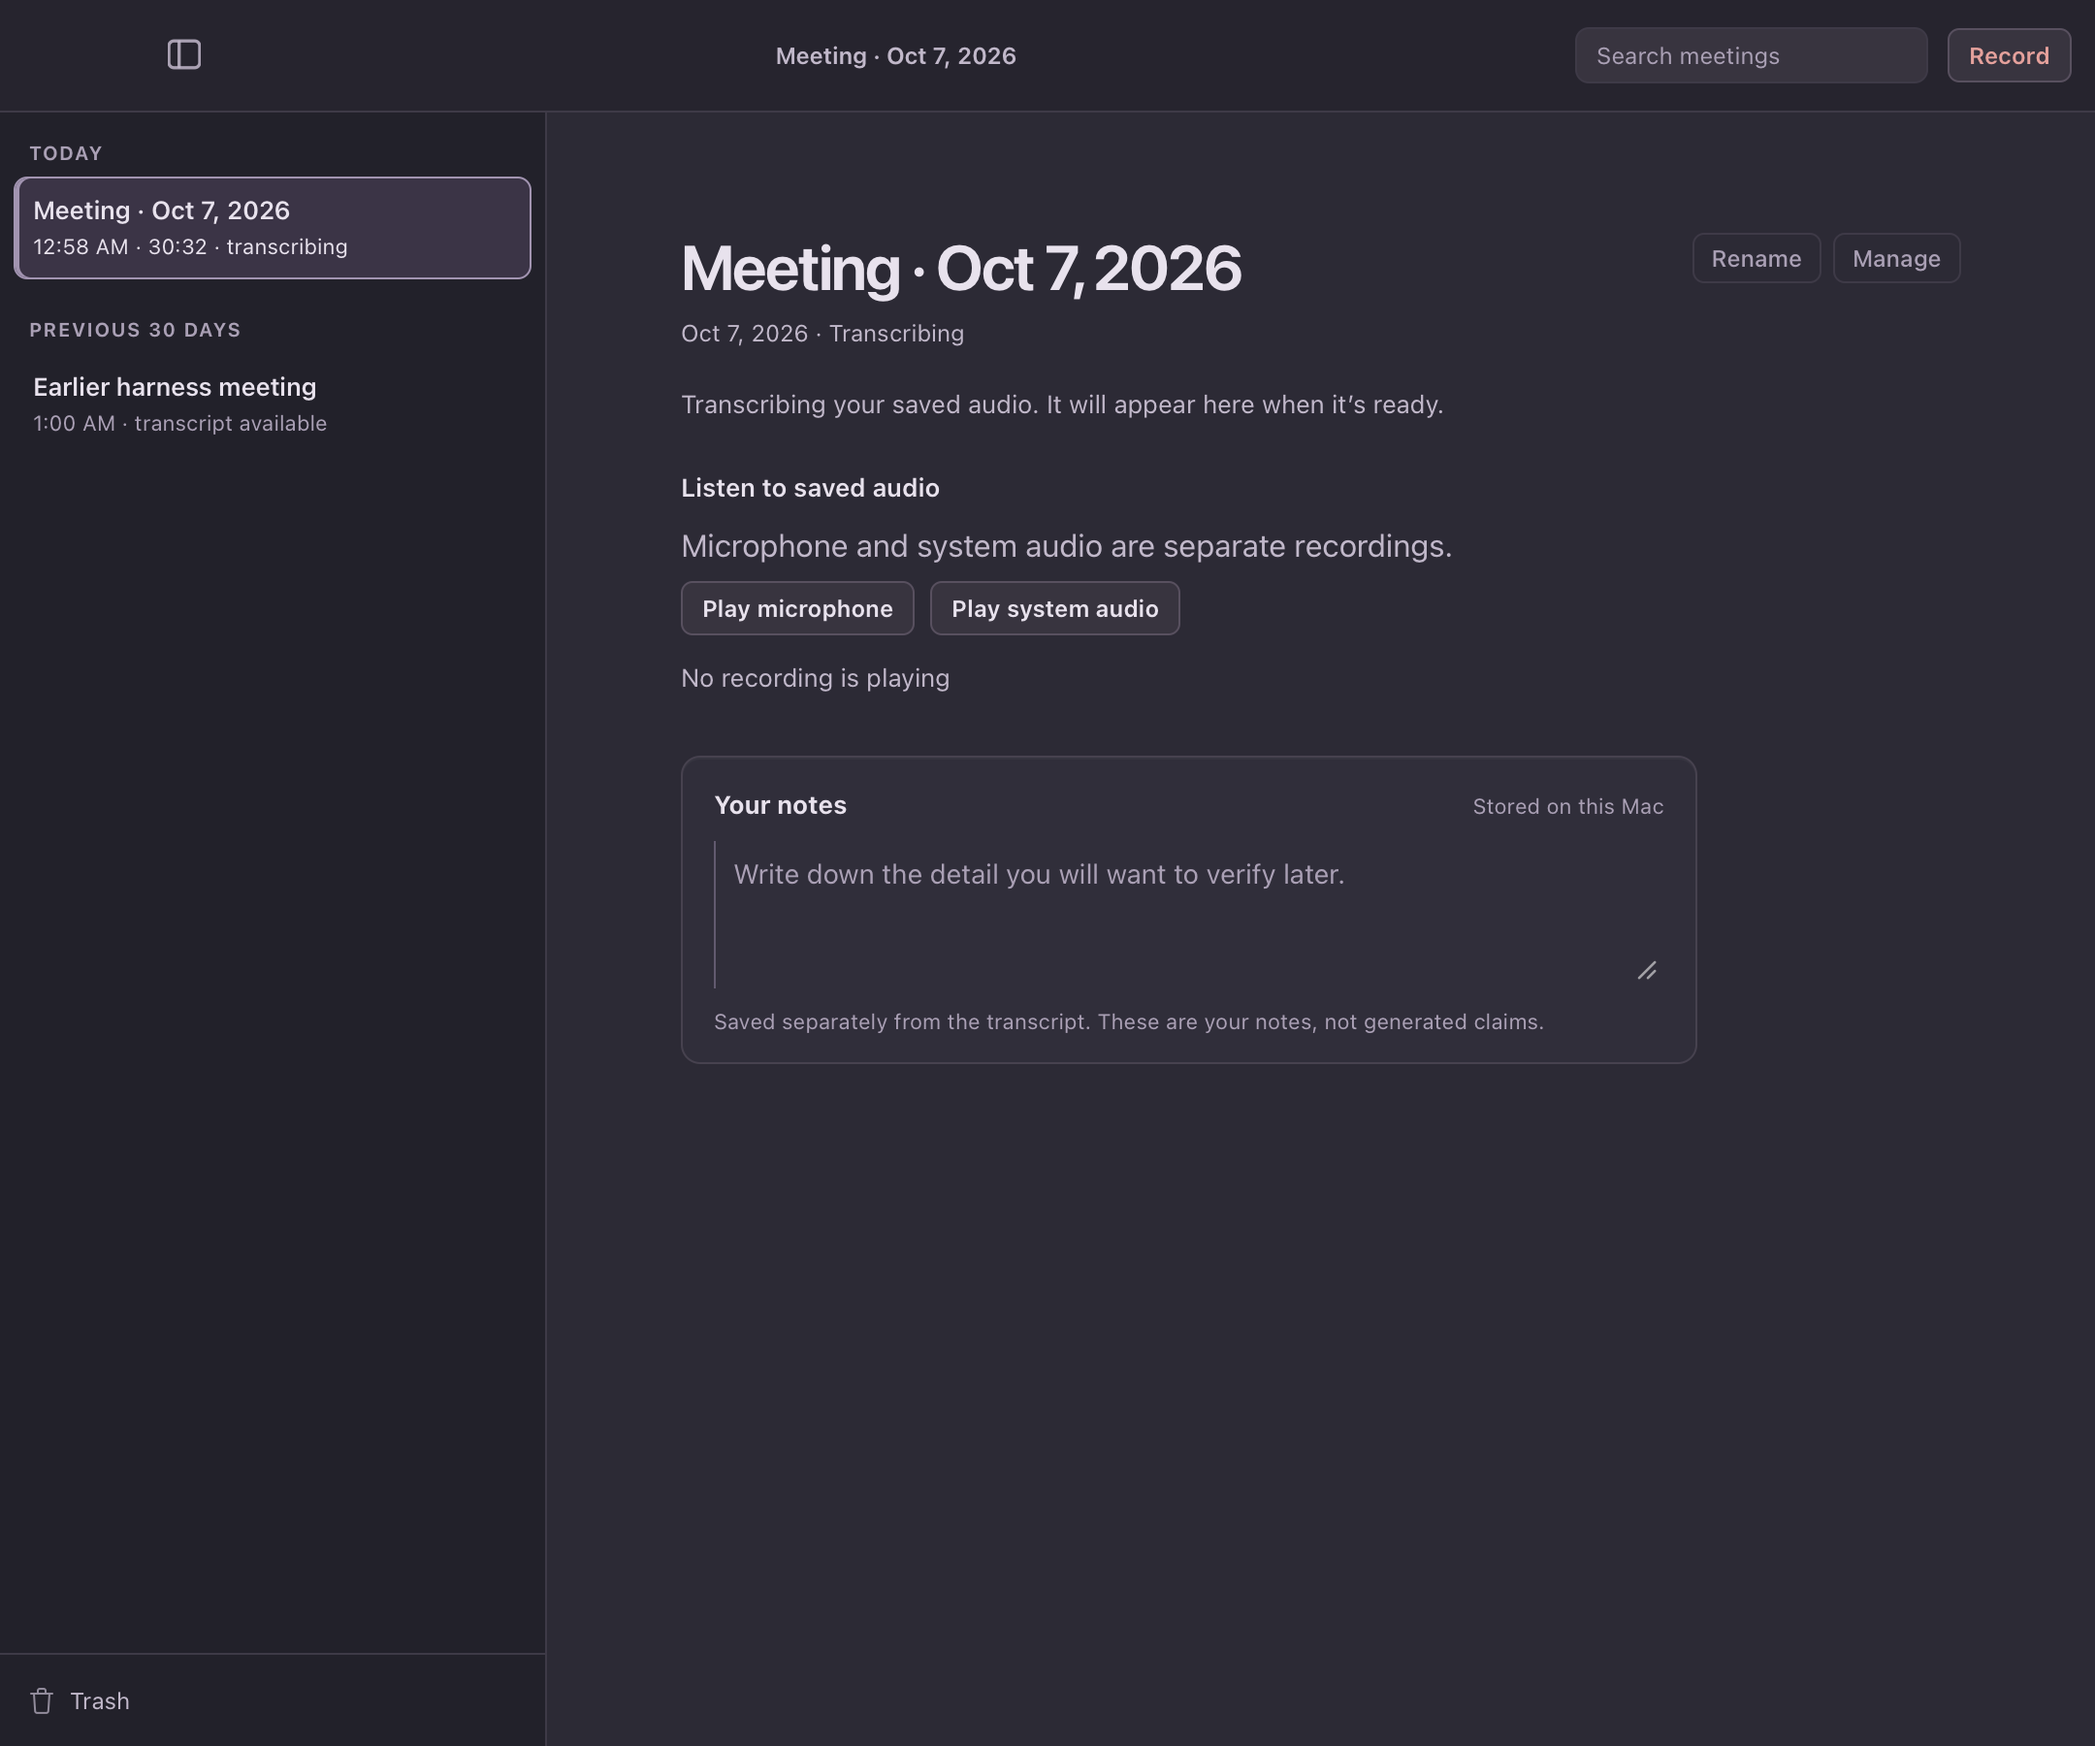
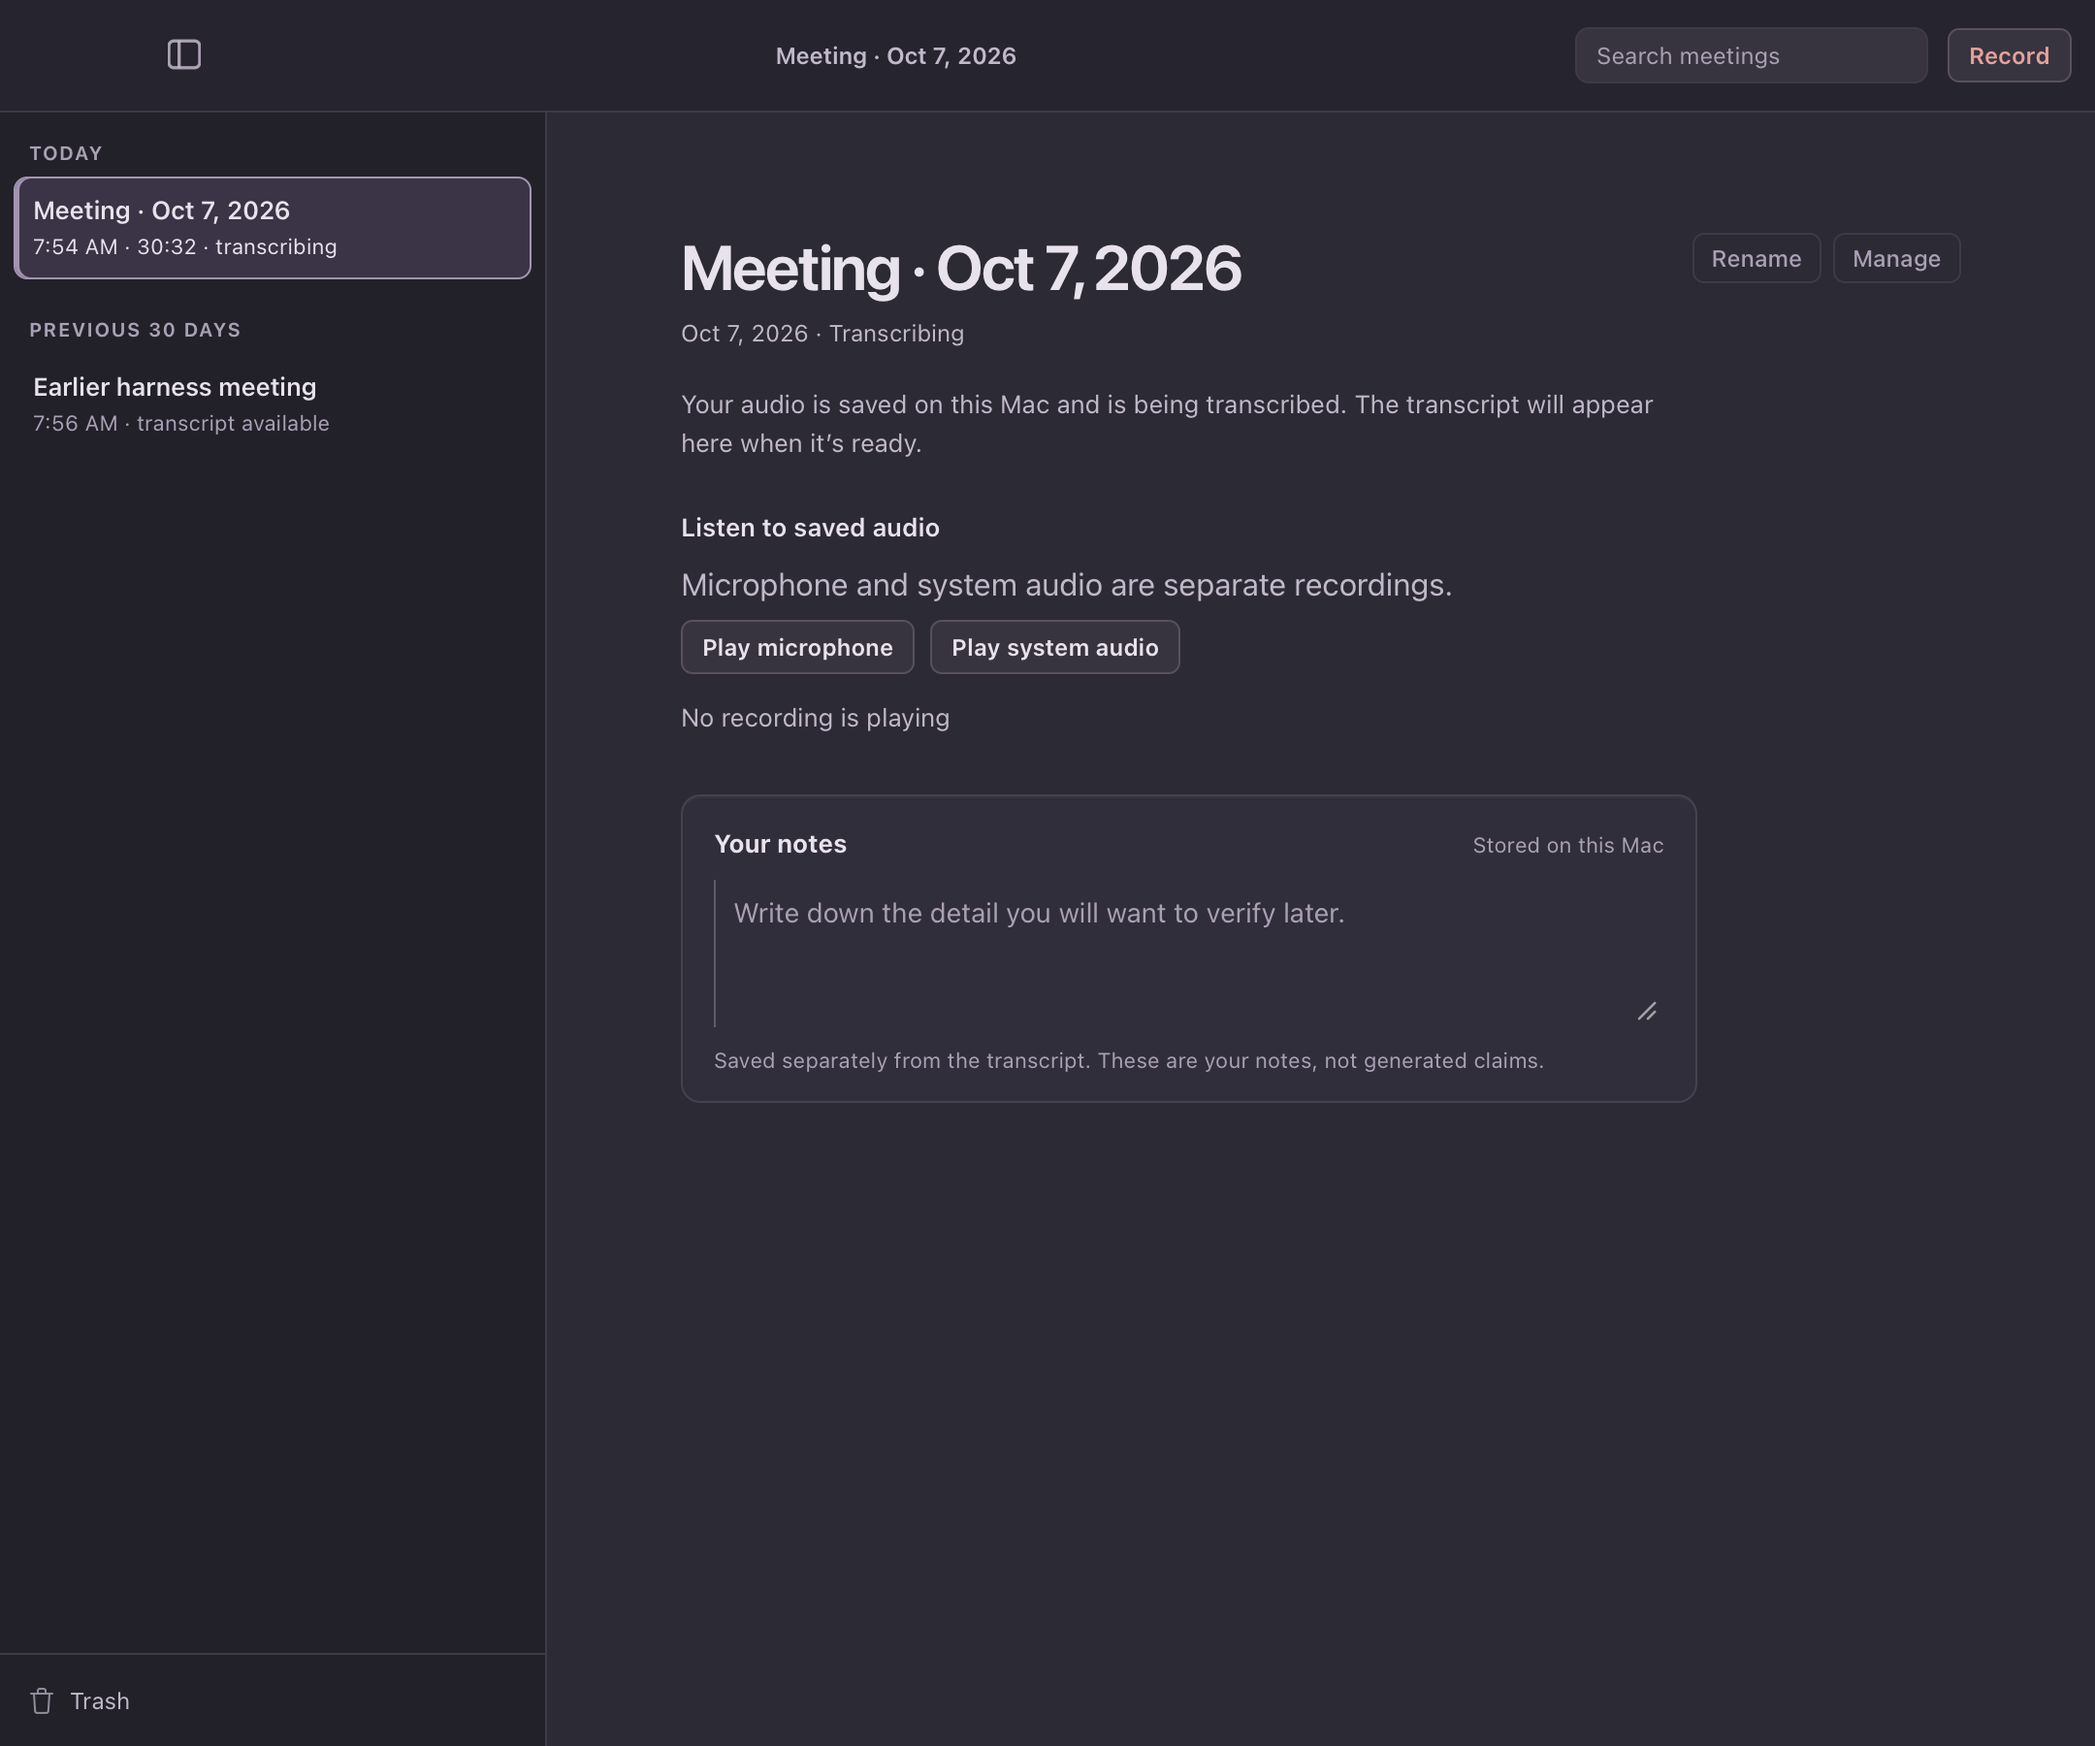
fix(ui): say the audio is saved on this Mac while it is transcribed
The cold review of the transcribing state found that "saved audio" and the
play buttons only implied the audio was safe. The operator accepted the
fix on 2026-10-07. The status now reads: "Your audio is saved on this Mac
and is being transcribed. The transcript will appear here when it's
ready." Updated in the backend message, the UI constant, the harness stub
and the DIRECTION.md content-reads row; the review record notes the
decision and the transcribing frames are recaptured. Tests assert state,
not this wording: desktop 289, UI 161 pass.

diff --git a/apps/desktop/ui-harness/tauri-stub.js b/apps/desktop/ui-harness/tauri-stub.js
@@ -314,7 +314,7 @@
         ? "No admitted note is available. Retained transcript text remains available."
         : legacyContract
           ? "No transcript was created for this retained meeting."
-          : "Transcribing your saved audio. It will appear here when it's ready.",
+          : "Your audio is saved on this Mac and is being transcribed. The transcript will appear here when it's ready.",
       audioRetention: { state: "retained", message: "Audio retained on this Mac." },
       capturePauses: null,
     } : searchMode && openedSearchMeeting ? {

diff --git a/apps/desktop/src-tauri/src/library_reader.rs b/apps/desktop/src-tauri/src/library_reader.rs
@@ -38,7 +38,7 @@ const UNAVAILABLE_MESSAGE: &str = "The local library is unavailable. Reopen the 
 /// in `ui/view-model.mjs`, with a typographic apostrophe); this one is for
 /// any consumer that reads the response's `message` directly.
 const TRANSCRIBING_MESSAGE: &str =
-    "Transcribing your saved audio. It will appear here when it's ready.";
+    "Your audio is saved on this Mac and is being transcribed. The transcript will appear here when it's ready.";
 const SAVED_NOTE_UNREADABLE_MESSAGE: &str = "Yawn no longer includes AI notes, so it can't show this meeting's saved AI draft. The draft is still saved on this Mac, and nothing is needed from you.";
 /// Roadmap intake I5. Said the same way everywhere a locked meeting refuses,
 /// and deliberately not a security claim: the meeting is behind a local

diff --git a/DIRECTION.md b/DIRECTION.md
@@ -94,7 +94,7 @@ did not produce (brief amendment, 2026-09-01).
 
 | Date | Surface | Strings | Verdict |
 |---|---|---|---|
-| 2026-10-07 | Meeting still being transcribed (`transcribing` note state, row `transcriptPending`): a just-recorded meeting opened before its transcript exists. Note-area status, document caption, sidebar row label | Status: "Transcribing your saved audio. It will appear here when it’s ready." Caption: "Transcribing". Row label: "transcribing". Backend message: "Transcribing your saved audio. It will appear here when it's ready." | Status sentence follows the operator's example. One cold pass (`docs/evidence/screen-reviews/transcribing-meeting-2026-10-07-cold.md`) said revise: add that the audio is saved on this Mac; left for the operator. Tests assert the state, row flag, role and that no "remains" claim appears, not this wording |
+| 2026-10-07 | Meeting still being transcribed (`transcribing` note state, row `transcriptPending`): a just-recorded meeting opened before its transcript exists. Note-area status, document caption, sidebar row label | Status: "Your audio is saved on this Mac and is being transcribed. The transcript will appear here when it’s ready." Caption: "Transcribing". Row label: "transcribing". Backend message: "Your audio is saved on this Mac and is being transcribed. The transcript will appear here when it's ready." | Status sentence follows the operator's example. One cold pass (`docs/evidence/screen-reviews/transcribing-meeting-2026-10-07-cold.md`) said revise: add that the audio is saved on this Mac; the operator accepted that on 2026-10-07 and the status now says it. Tests assert the state, row flag, role and that no "remains" claim appears, not this wording |
 | 2026-10-06 | Withheld saved AI draft (`saved-note-unreadable`): a ready meeting whose saved draft this install cannot read because no note projector is admitted. Note-area headline plus detail, document caption, export omission | Headline: "Your transcript, audio, and notes are here." (audio retained) / "Your transcript and notes are here." (audio released). Detail: "Yawn no longer includes AI notes, so it can’t show this meeting’s saved AI draft. The draft is still saved on this Mac, and nothing is needed from you." Caption: "Transcript". Backend message: "Yawn no longer includes AI notes, so it can't show this meeting's saved AI draft. The draft is still saved on this Mac, and nothing is needed from you." Export omission: "note.md was not included: Yawn no longer includes AI notes, so it can't read this meeting's saved AI draft. The draft is still saved on this Mac." | Operator chose the structure (lead with what the meeting has) after four cold passes did not converge (`docs/evidence/screen-reviews/saved-draft-unreadable-2026-10-06-cold.md`); sentence wording is agent-drafted. Tests assert the state, non-blocking, playback, and that the headline changes with audio retention, not this wording |
 | 2026-09-30 | Generation retirement, transcript-only and historical generation states | "Automatic note generation is no longer available. Your notes and transcript remain available." | Parent-selected implementation copy following the operator's approved deprecation. Revised cold screen review accepted; this is not operator wording acceptance. |
 | 2026-09-01 | W10 first-run sheet, teaching empty state, guided hint | All W10 user-facing strings, verbatim in the packet report | Approved as-is by the operator; x-close retained |

diff --git a/docs/evidence/screen-reviews/transcribing-meeting-2026-10-07-cold.md b/docs/evidence/screen-reviews/transcribing-meeting-2026-10-07-cold.md
@@ -22,3 +22,5 @@ What was removed, combined, demoted or hidden: the false "transcript remains ava
 ![Transcript landed, light](../transcribing-meeting-2026-10-07/landed-light.png)
 
 Checks: `npm run test:ui` (161 pass). `cargo test -p local-meeting-notes-desktop` (289 pass) and `-p local-meeting-notes-session-core` (536 pass). `./run.sh transcribing-meeting` passes (both the pending state and the transcript landing while text is being typed). Run against main's UI it fails: no status node, row reads "note only". `./run.sh all` has two failing animation-count checks in `sheets` that fail identically on main. This review does not establish behavior in an installed build.
+
+**Operator decision, 2026-10-07:** the status line now says the audio is saved on this Mac, answering pass 1's finding that "saved audio" and the play buttons only implied it: "Your audio is saved on this Mac and is being transcribed. The transcript will appear here when it's ready." Frames recaptured with this copy. No progress indicator was added, because no progress signal exists.
